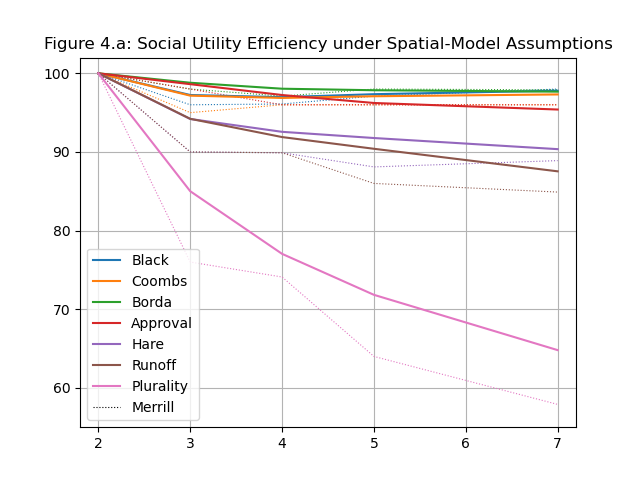
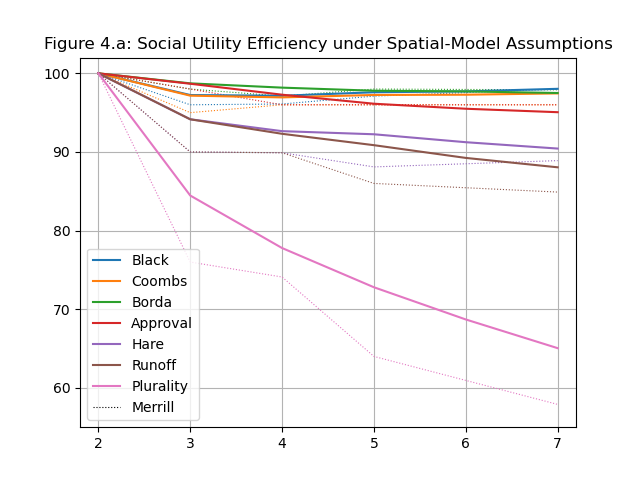
fix(merrill): use standard scores for spatial-model examples
Merrill's spatial-model simulations standardized each voter's
range-normalized utilities to mean 0 and standard deviation 1. The
Table 4 and Figure 4 examples only performed range normalization, which
left their social-utility efficiencies consistently below the published
values.

Standardize utilities in both examples, regenerate the Table 4 reference
values and Figure 4a/4b results, and update the tests, docstrings, and
example README.

diff --git a/examples/merrill_1984_fig_4a_4b.py b/examples/merrill_1984_fig_4a_4b.py
@@ -16,25 +16,28 @@ Results with 500_000 elections:
 
 | Method    |     2 |    3 |    4 |    5 |    6 |    7 |
 |:----------|------:|-----:|-----:|-----:|-----:|-----:|
-| Black     | 100.0 | 97.2 | 97.1 | 97.3 | 97.6 | 97.8 |
-| Coombs    | 100.0 | 97.1 | 96.8 | 97.0 | 97.2 | 97.4 |
-| Borda     | 100.0 | 98.7 | 98.2 | 97.9 | 97.7 | 97.6 |
-| Approval  | 100.0 | 98.7 | 97.3 | 96.2 | 95.6 | 95.2 |
-| Hare      | 100.0 | 94.2 | 92.6 | 91.7 | 91.0 | 90.3 |
-| Runoff    | 100.0 | 94.2 | 92.0 | 90.4 | 88.9 | 87.4 |
-| Plurality | 100.0 | 84.7 | 77.1 | 72.1 | 68.1 | 64.8 |
+| Black     | 100.0 | 97.2 | 97.1 | 97.6 | 97.7 | 98.0 |
+| Coombs    | 100.0 | 97.2 | 96.9 | 97.2 | 97.3 | 97.4 |
+| Borda     | 100.0 | 98.7 | 98.2 | 97.8 | 97.7 | 97.5 |
+| Approval  | 100.0 | 98.7 | 97.3 | 96.1 | 95.5 | 95.1 |
+| Hare      | 100.0 | 94.2 | 92.6 | 92.3 | 91.2 | 90.4 |
+| Runoff    | 100.0 | 94.2 | 92.3 | 90.9 | 89.2 | 88.0 |
+| Plurality | 100.0 | 84.5 | 77.8 | 72.8 | 68.7 | 65.1 |
 
 4.b
 
 | Method    |     2 |    3 |    4 |    5 |     6 |     7 |
 |:----------|------:|-----:|-----:|-----:|------:|------:|
-| Black     | 100.0 | 95.5 | 95.2 | 95.5 |  95.8 |  96.2 |
-| Coombs    | 100.0 | 94.9 | 94.1 | 94.0 |  94.0 |  94.1 |
-| Borda     | 100.0 | 97.9 | 97.1 | 96.6 |  96.4 |  96.3 |
-| Approval  | 100.0 | 98.6 | 96.7 | 95.6 |  94.9 |  94.5 |
-| Hare      | 100.0 | 70.2 | 55.9 | 46.7 |  39.7 |  34.6 |
-| Runoff    | 100.0 | 70.2 | 51.7 | 36.9 |  24.3 |  13.5 |
-| Plurality | 100.0 | 50.1 | 23.7 |  4.3 | -11.8 | -25.1 |
+| Black     | 100.0 | 95.6 | 95.4 | 96.0 |  96.2 |  96.5 |
+| Coombs    | 100.0 | 95.1 | 94.4 | 94.4 |  94.3 |  94.2 |
+| Borda     | 100.0 | 97.9 | 97.1 | 96.9 |  96.5 |  96.4 |
+| Approval  | 100.0 | 98.7 | 96.7 | 95.9 |  94.8 |  94.4 |
+| Hare      | 100.0 | 70.2 | 55.6 | 48.2 |  39.7 |  34.4 |
+| Runoff    | 100.0 | 70.2 | 51.7 | 38.1 |  24.7 |  14.2 |
+| Plurality | 100.0 | 50.0 | 23.2 |  5.9 | -13.1 | -26.9 |
+
+Each voter's range-normalized utilities are standardized to mean 0 and
+standard deviation 1, matching Merrill's spatial-model procedure.
 
 The general trend is similar to Merrill's, but there are significant
 discrepancies.  It is smoother, so maybe the original just had lower number of
@@ -100,6 +103,10 @@ for fig, disp, ymin, orig in (('4.a', 1.0, 55, merrill_fig_4a),
             v, c = normal_electorate(n_voters, n_cands, dims=D, corr=corr,
                                      disp=disp)
             utilities = normed_dist_utilities(v, c)
+            # Merrill's spatial-model simulations standardized each voter's
+            # utilities to mean 0 and standard deviation 1.
+            utilities = ((utilities - utilities.mean(axis=1, keepdims=True))
+                         / utilities.std(axis=1, keepdims=True))
             rankings = honest_rankings(utilities)
 
             # Pick a random winner and accumulate utilities

diff --git a/examples/merrill_1984_table_4.py b/examples/merrill_1984_table_4.py
@@ -18,13 +18,16 @@ Typical result with 100_000 elections:
 | Corr      |   0.5 |   0.5 |   0.0 |   0.0 |   0.5 |   0.5 |   0.0 |   0.0 |
 | Dims      |     2 |     4 |     2 |     4 |     2 |     4 |     2 |     4 |
 |:----------|------:|------:|------:|------:|------:|------:|------:|------:|
-| Plurality |  67.1 |  75.1 |  76.6 |  90.3 |   3.0 |   7.1 |  23.2 |  49.6 |
-| Runoff    |  88.3 |  92.6 |  89.6 |  96.3 |  35.0 |  43.4 |  51.4 |  73.3 |
-| Hare      |  89.8 |  93.0 |  92.7 |  97.5 |  42.5 |  55.9 |  55.0 |  81.4 |
-| Approval  |  95.7 |  97.0 |  96.6 |  98.3 |  95.3 |  96.4 |  95.1 |  97.5 |
-| Borda     |  97.6 |  98.2 |  98.0 |  99.3 |  96.1 |  97.4 |  96.9 |  98.6 |
-| Coombs    |  96.0 |  96.7 |  97.1 |  98.1 |  92.8 |  93.3 |  94.1 |  95.6 |
-| Black     |  96.6 |  97.2 |  97.6 |  98.7 |  94.9 |  95.9 |  96.1 |  97.6 |
+| Plurality |  68.1 |  75.9 |  77.5 |  90.8 |   3.4 |   7.4 |  24.4 |  50.7 |
+| Runoff    |  88.8 |  92.9 |  90.0 |  96.6 |  36.2 |  44.4 |  52.7 |  74.1 |
+| Hare      |  90.2 |  93.3 |  93.0 |  97.7 |  43.2 |  56.6 |  55.8 |  81.9 |
+| Approval  |  95.7 |  97.0 |  96.5 |  98.2 |  95.3 |  96.5 |  95.0 |  97.4 |
+| Borda     |  97.6 |  98.3 |  97.8 |  99.3 |  96.2 |  97.5 |  96.8 |  98.6 |
+| Coombs    |  96.3 |  97.0 |  97.3 |  98.2 |  93.4 |  93.8 |  94.5 |  95.8 |
+| Black     |  97.0 |  97.5 |  97.8 |  98.8 |  95.5 |  96.3 |  96.5 |  97.9 |
+
+Each voter's range-normalized utilities are then standardized to mean 0 and
+standard deviation 1, matching Merrill's spatial-model procedure.
 
 The paper describes 200 candidate sets, each combined with five electorates,
 but it does not state whether the reported SUE is the mean of the 200 per-set
@@ -97,10 +100,12 @@ for disp, corr, D in conditions:
             v, _ = normal_electorate(n_voters, n_cands, dims=D, corr=corr,
                                      disp=disp, random_state=rng)
 
-            # Simulated utilities were normalized by range, i.e. each
-            # voter's utilities were linearly expanded so that their highest
-            # and lowest utilities were 1 and 0.
+            # Normalize candidate distances to utilities, then standardize
+            # each voter's utilities to mean 0 and standard deviation 1, as
+            # Merrill did for the spatial-model simulations.
             utilities = normed_dist_utilities(v, c)
+            utilities = ((utilities - utilities.mean(axis=1, keepdims=True))
+                         / utilities.std(axis=1, keepdims=True))
             rankings = honest_rankings(utilities)
             utility_sum = utilities.sum(axis=0)
 

diff --git a/tests/test_examples.py b/tests/test_examples.py
@@ -47,11 +47,11 @@ ALL_SCRIPTS = [
 #
 # merrill_1984_table_2 does not match the published table (unresolved
 # discrepancies of up to ~5 pp), so it is checked against the "Typical result"
-# table in its docstring instead. merrill_1984_table_4 uses the paper's
-# candidate-set grouping, but the paper does not state whether the reported
-# SUE is a per-set mean or a pooled ratio. The per-set version is closer to
-# Table 4, so it is checked against its docstring; the paper's 200-set
-# estimates also carry several percentage points of Monte Carlo error.
+# table in its docstring instead. merrill_1984_table_4 uses standard scores and
+# the paper's candidate-set grouping, but the paper does not state whether the
+# reported SUE is a per-set mean or a pooled ratio. The per-set version is
+# closer to Table 4, so it is checked against its docstring; the paper's
+# 200-set estimates also carry several percentage points of Monte Carlo error.
 # weber_1977_effectiveness_table's last row (255 candidates) is taken from its
 # docstring too, because the paper only gives the m -> infinity limit there.
 #
@@ -90,13 +90,13 @@ REFERENCE_VALUES = {
         'Black': (100.0, 93.1, 91.9, 92.0, 93.1, 94.3),
     },
     'merrill_1984_table_4.py': {
-        'Plurality': (67.1, 75.1, 76.6, 90.3, 3.0, 7.1, 23.2, 49.6),
-        'Runoff': (88.3, 92.6, 89.6, 96.3, 35.0, 43.4, 51.4, 73.3),
-        'Hare': (89.8, 93.0, 92.7, 97.5, 42.5, 55.9, 55.0, 81.4),
-        'Approval': (95.7, 97.0, 96.6, 98.3, 95.3, 96.4, 95.1, 97.5),
-        'Borda': (97.6, 98.2, 98.0, 99.3, 96.1, 97.4, 96.9, 98.6),
-        'Coombs': (96.0, 96.7, 97.1, 98.1, 92.8, 93.3, 94.1, 95.6),
-        'Black': (96.6, 97.2, 97.6, 98.7, 94.9, 95.9, 96.1, 97.6),
+        'Plurality': (68.1, 75.9, 77.5, 90.8, 3.4, 7.4, 24.4, 50.7),
+        'Runoff': (88.8, 92.9, 90.0, 96.6, 36.2, 44.4, 52.7, 74.1),
+        'Hare': (90.2, 93.3, 93.0, 97.7, 43.2, 56.6, 55.8, 81.9),
+        'Approval': (95.7, 97.0, 96.5, 98.2, 95.3, 96.5, 95.0, 97.4),
+        'Borda': (97.6, 98.3, 97.8, 99.3, 96.2, 97.5, 96.8, 98.6),
+        'Coombs': (96.3, 97.0, 97.3, 98.2, 93.4, 93.8, 94.5, 95.8),
+        'Black': (97.0, 97.5, 97.8, 98.8, 95.5, 96.3, 96.5, 97.9),
     },
     'weber_1977_effectiveness_table.py': {
         'Standard': (81.65, 75.00, 69.28, 64.55, 60.61, 49.79, 12.78),

diff --git a/examples/README.md b/examples/README.md
@@ -249,13 +249,13 @@ Source: [merrill_1984_table_4.py](merrill_1984_table_4.py)
 
 | Method    |     2 |    3 |    4 |    5 |    7 |
 | :-------- | ----: | ---: | ---: | ---: | ---: |
-| Black     | 100.0 | 97.1 | 97.1 | 97.3 | 97.8 |
-| Coombs    | 100.0 | 97.0 | 96.8 | 97.0 | 97.4 |
-| Borda     | 100.0 | 98.7 | 98.2 | 97.9 | 97.7 |
-| Approval  | 100.0 | 98.7 | 97.4 | 96.2 | 95.3 |
-| Hare      | 100.0 | 94.1 | 92.7 | 91.7 | 90.2 |
-| Runoff    | 100.0 | 94.1 | 92.0 | 90.5 | 87.4 |
-| Plurality | 100.0 | 84.4 | 77.3 | 72.0 | 64.8 |
+| Black     | 100.0 | 97.2 | 97.1 | 97.6 | 98.0 |
+| Coombs    | 100.0 | 97.2 | 96.9 | 97.2 | 97.4 |
+| Borda     | 100.0 | 98.7 | 98.2 | 97.8 | 97.5 |
+| Approval  | 100.0 | 98.7 | 97.3 | 96.1 | 95.1 |
+| Hare      | 100.0 | 94.2 | 92.6 | 92.3 | 90.4 |
+| Runoff    | 100.0 | 94.2 | 92.3 | 90.9 | 88.0 |
+| Plurality | 100.0 | 84.5 | 77.8 | 72.8 | 65.1 |
 
 ![](./results/Merrill_1984_Figure_4.a._201_voters,_10000_elections.png)
 
@@ -263,13 +263,13 @@ Source: [merrill_1984_table_4.py](merrill_1984_table_4.py)
 
 | Method    |     2 |    3 |    4 |    5 |     7 |
 | :-------- | ----: | ---: | ---: | ---: | ----: |
-| Black     | 100.0 | 95.4 | 95.2 | 95.5 |  96.1 |
-| Coombs    | 100.0 | 94.9 | 94.1 | 94.0 |  94.1 |
-| Borda     | 100.0 | 97.9 | 97.1 | 96.6 |  96.2 |
-| Approval  | 100.0 | 98.5 | 96.8 | 95.5 |  94.5 |
-| Hare      | 100.0 | 70.2 | 55.8 | 46.7 |  34.7 |
-| Runoff    | 100.0 | 70.1 | 51.4 | 36.8 |  13.6 |
-| Plurality | 100.0 | 50.0 | 23.2 |  4.0 | -24.7 |
+| Black     | 100.0 | 95.6 | 95.4 | 96.0 |  96.5 |
+| Coombs    | 100.0 | 95.1 | 94.4 | 94.4 |  94.2 |
+| Borda     | 100.0 | 97.9 | 97.1 | 96.9 |  96.4 |
+| Approval  | 100.0 | 98.7 | 96.7 | 95.9 |  94.4 |
+| Hare      | 100.0 | 70.2 | 55.6 | 48.2 |  34.4 |
+| Runoff    | 100.0 | 70.2 | 51.7 | 38.1 |  14.2 |
+| Plurality | 100.0 | 50.0 | 23.2 |  5.9 | -26.9 |
 
 ![](./results/Merrill_1984_Figure_4.b._201_voters,_10000_elections.png)
 
